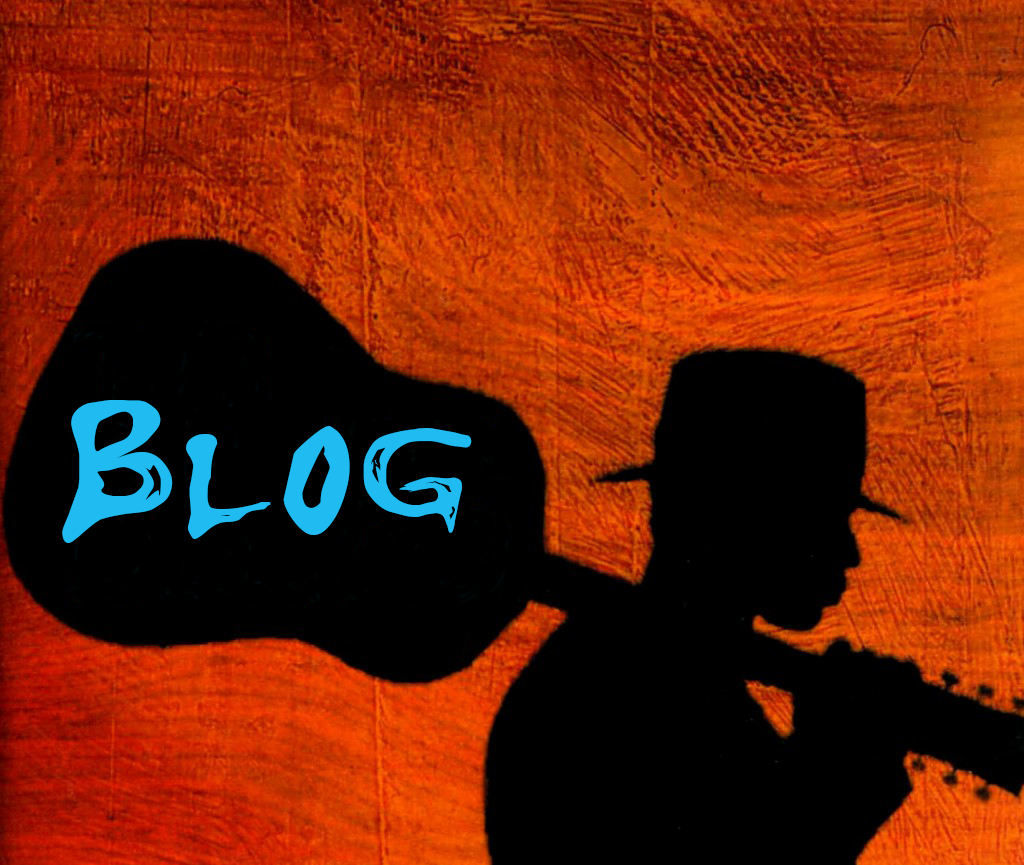
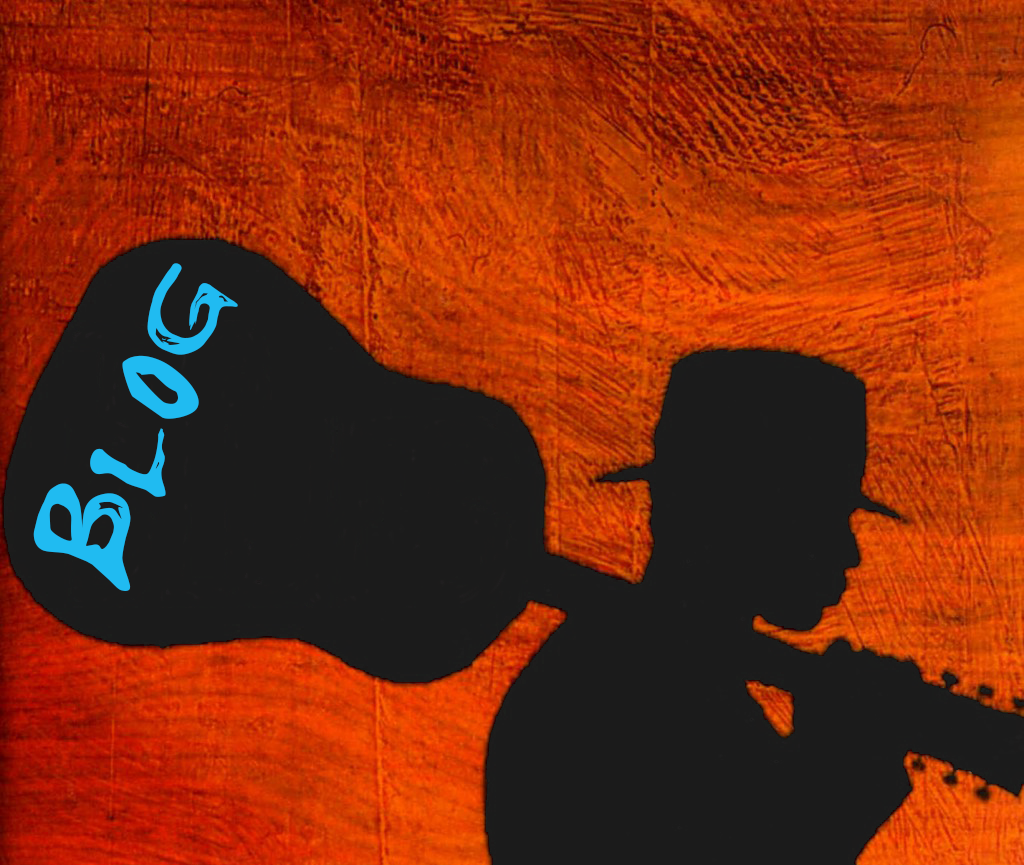
added style features

diff --git a/src/components/OurNavbar/OurNavbar.js b/src/components/OurNavbar/OurNavbar.js
@@ -1,57 +1,56 @@
-import styles from './Navbar.module.css';
-import { NavLink } from 'react-router-dom';
-import logo from '../../assets/Logo.png';
-import { Nav, Navbar, Container } from 'react-bootstrap';
+import styles from "./Navbar.module.css";
+import { NavLink } from "react-router-dom";
+import logo from "../../assets/Logo.png";
+import { Nav, Navbar, Container } from "react-bootstrap";
 
 const links = [
   {
     id: 1,
-    path: '/',
-    text: 'Home',
+    path: "/",
+    text: "Home",
   },
   {
     id: 2,
-    path: '/about',
-    text: 'About',
+    path: "/about",
+    text: "About",
   },
   {
     id: 3,
-    path: '/contact',
-    text: 'Contact',
+    path: "/contact",
+    text: "Contact",
   },
 ];
 
 const OurNavbar = () => {
   return (
-    <div className="text-uppercase">
-      <Navbar bg="dark" variant="dark" expand="lg">
-        <Container className="text-center py-3 px-5">
-          <Navbar.Brand>
-            <img src={logo} alt="logo" className={styles.logo} />
-          </Navbar.Brand>
-        </Container>
-        <Navbar.Toggle />
-        <Navbar.Collapse>
-          <div className={styles.link}>
-            <Nav className="fs-4">
-              {links.map((link) => {
-                return (
-                  <li key={link.id}>
-                    <NavLink
-                      to={link.path}
-                      activeClassName={styles.active}
-                      exact
-                    >
-                      {link.text}
-                    </NavLink>
-                  </li>
-                );
-              })}
-            </Nav>
-          </div>
-        </Navbar.Collapse>
-      </Navbar>
-    </div>
+    <Navbar bg="dark" variant="dark" expand="sm" className="text-uppercase">
+      <Container>
+        <Navbar.Brand className="mx-1 my-2">
+          <img src={logo} alt="logo" className={styles.logo} />
+        </Navbar.Brand>
+      </Container>
+      <Navbar.Toggle className="mx-3 my-3" />
+      <Navbar.Collapse className="mx-4">
+        <div className={styles.link}>
+          <Nav className="fs-4">
+            {links.map((link) => {
+              return (
+                <li key={link.id}>
+                  <NavLink
+                    to={link.path}
+                    activeClassName={styles.active}
+                    exact
+                    className="mx-2"
+                  >
+                    {link.text}
+                  </NavLink>
+                </li>
+              );
+            })}
+          </Nav>
+        </div>
+      </Navbar.Collapse>
+    </Navbar>
   );
 };
 

diff --git a/src/components/Main/Main.js b/src/components/Main/Main.js
@@ -1,8 +1,10 @@
-import { useState, useEffect } from 'react';
-import CardComponent from '../Card/Card';
-import { Row, Container, Tabs, Tab } from 'react-bootstrap';
+import { useState, useEffect } from "react";
+import CardComponent from "../Card/Card";
+import { Row, Container, Tabs, Tab } from "react-bootstrap";
 
 //API_KEY = 775233f226ed41cc9852287b734bcbf0
+
+//super API_KEY = fe8238e5bbb24aa3827e12a7548d6608
 
 const Main = () => {
   const [allPosts, setAllPosts] = useState([]);
@@ -12,7 +14,7 @@ const Main = () => {
   /* allPosts */
   useEffect(() => {
     const url =
-      'https://newsapi.org/v2/everything?q=apple&from=2021-12-06&to=2021-12-06&sortBy=popularity&apiKey=775233f226ed41cc9852287b734bcbf0775233f226ed41cc9852287b734bcbf0';
+      "https://newsapi.org/v2/everything?q=apple&from=2021-12-06&to=2021-12-06&sortBy=popularity&apiKey=fe8238e5bbb24aa3827e12a7548d6608";
     fetch(url)
       .then((res) => {
         return res.json();
@@ -27,7 +29,7 @@ const Main = () => {
 
   useEffect(() => {
     const url =
-      'https://newsapi.org/v2/top-headlines?sources=techcrunch&apiKey=775233f226ed41cc9852287b734bcbf0';
+      "https://newsapi.org/v2/top-headlines?sources=techcrunch&apiKey=fe8238e5bbb24aa3827e12a7548d6608";
 
     fetch(url)
       .then((res) => {
@@ -42,7 +44,7 @@ const Main = () => {
 
   useEffect(() => {
     const url =
-      'https://newsapi.org/v2/everything?q=tesla&from=2021-11-07&sortBy=publishedAt&apiKey=775233f226ed41cc9852287b734bcbf0';
+      "https://newsapi.org/v2/everything?q=tesla&from=2021-11-07&sortBy=publishedAt&apiKey=fe8238e5bbb24aa3827e12a7548d6608";
 
     fetch(url)
       .then((res) => {
@@ -54,9 +56,9 @@ const Main = () => {
   });
 
   return (
-    <Container fluid>
+    <Container fluid id="main">
       <Row>
-        <h2 className="text-secondary my-5">Our Pictures Catalog</h2>
+        <h2 className="text-secondary my-5">Our Posts Catalog</h2>
       </Row>
       <Tabs defaultActiveKey="home" className="mb-3">
         <Tab eventKey="allPosts" title="AllPosts">

diff --git a/src/pages/Contact/ContactPage.js b/src/pages/Contact/ContactPage.js
@@ -1,15 +1,23 @@
-import { Form, Container } from 'react-bootstrap';
+import { Form, Container } from "react-bootstrap";
 
 const ContactPage = () => {
   return (
     <Container>
       <Form className="pt-5">
-        <Form.Group className="mb-3" controlId="exampleForm.ControlInput1">
-          <Form.Label>Email address</Form.Label>
-          <Form.Control type="email" placeholder="name@example.com" />
+        <Form.Group className="mb-3" controlId="name">
+          <Form.Label>Name</Form.Label>
+          <Form.Control type="text" placeholder="John" />
         </Form.Group>
-        <Form.Group className="mb-3" controlId="exampleForm.ControlTextarea1">
-          <Form.Label>Example textarea</Form.Label>
+        <Form.Group className="mb-3" controlId="lastName">
+          <Form.Label>Last Name</Form.Label>
+          <Form.Control type="text" placeholder="Smith" />
+        </Form.Group>
+        <Form.Group className="mb-3" controlId="email">
+          <Form.Label>Email Address</Form.Label>
+          <Form.Control type="email" placeholder="johnsmith@email.com" />
+        </Form.Group>
+        <Form.Group className="mb-3" controlId="message">
+          <Form.Label>Your Message</Form.Label>
           <Form.Control as="textarea" rows={3} />
         </Form.Group>
       </Form>

diff --git a/src/components/Footer/Footer.js b/src/components/Footer/Footer.js
@@ -1,5 +1,5 @@
-import styles from './Footer.module.css';
-import { Row, Col, Form, Button, Container } from 'react-bootstrap';
+import styles from "./Footer.module.css";
+import { Row, Col, Form, Button, Container } from "react-bootstrap";
 const Footer = () => {
   return (
     <Container fluid>
@@ -16,8 +16,8 @@ const Footer = () => {
 
             <Form>
               <Form.Group>
-                <Row>
-                  <Col>
+                <Row className="gy-3">
+                  <Col xs={12} sm={6}>
                     <Form.Control
                       type="email"
                       placeholder="Your Email.."

diff --git a/src/components/Hero/Hero.js b/src/components/Hero/Hero.js
@@ -1,6 +1,6 @@
-import styles from './Hero.module.css';
-import OurButton from '../OurButton/OurButton';
-import { Container, Row } from 'react-bootstrap';
+import styles from "./Hero.module.css";
+import OurButton from "../OurButton/OurButton";
+import { Container, Row } from "react-bootstrap";
 
 const Hero = () => {
   return (
@@ -12,7 +12,7 @@ const Hero = () => {
             sm={2}
           ></Row>
 
-          <Row className="justify-content-md-center text-center mt-5 pt-5 gy-5">
+          <Row className="justify-content-md-center text-center mt-5 pt-5 ">
             <OurButton />
           </Row>
         </Container>

diff --git a/src/components/OurButton/OurButton.js b/src/components/OurButton/OurButton.js
@@ -1,9 +1,9 @@
-import { Button } from 'react-bootstrap';
+import { Button } from "react-bootstrap";
 
 const OurButton = () => {
   return (
     <div>
-      <Button variant="outline-light" size="lg">
+      <Button variant="outline-light" size="lg" href="#main">
         Discover
       </Button>
     </div>

diff --git a/src/components/Hero/Hero.module.css b/src/components/Hero/Hero.module.css
@@ -1,7 +1,7 @@
 .hero {
-  background-image: url('../../assets/Blog.png');
+  background-image: url("../../assets/Blog.png");
   background-repeat: no-repeat;
   background-size: cover;
-  background-position: 50% 52%;
+  background-position: 0% 50%;
   min-height: 100vh;
 }

diff --git a/src/components/OurNavbar/Navbar.module.css b/src/components/OurNavbar/Navbar.module.css
@@ -1,7 +1,6 @@
 .link a {
   text-decoration: none;
   color: white;
-  margin: 1rem;
 }
 .link a:hover {
   border-bottom: 1px solid white;

diff --git a/src/components/Footer/Footer.module.css b/src/components/Footer/Footer.module.css
@@ -1,8 +1,3 @@
-/* .footer {
-  
-}
- */
-
 .footerLink {
   list-style: none;
 }
